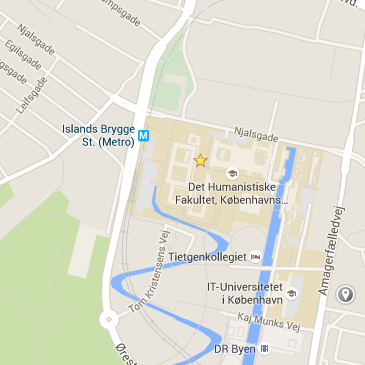
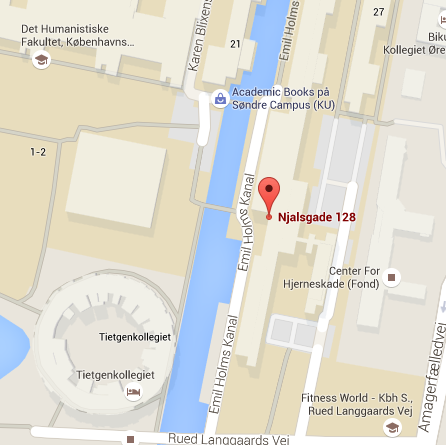
Squashed commit of the following:
commit 1a3e7a5adaa51a7eee7373cc8faa289f8d564831
Author: Ali <ali@praqma.net>
Date:   Thu Aug 6 03:11:02 2015 +0200

    address updated

diff --git a/_includes/jues/front-sidebar.html b/_includes/jues/front-sidebar.html
@@ -9,7 +9,8 @@
 <div class="darkbox">
   <h1>LOCATION</h1>
   Københavns Universitet Amager (KUA)<br>
-  Karen Blixens Vej 4<br>
+  Njalsgade 128, <br>
+  Auditorium 23.0.50 <br>
   DK-2300 København Denmark
   <hr>
   <h1>DATES</h1>
@@ -18,7 +19,7 @@
   <hr>
   <h1>TIME</h1>
   <div style="padding-bottom:8px">9:00 - 17:00</div>
-  <a  title="JUSE 2015 Venues: Københavns Universitet Amager (KUA) and Praqma" target="_blank" href="https://goo.gl/maps/hUFdi">
+  <a  title="JUSE 2015 Venues: Københavns Universitet Amager (KUA) and Praqma" target="_blank" href="https://goo.gl/maps/tctSM">
     <img
       width="200"
       frameborder="0"

diff --git a/jues15/index.md b/jues15/index.md
@@ -14,7 +14,7 @@ __August 12th, 2015 at Københavns Universitet Amager (KUA).__
 
 The program consists of invited as and submitted speaks, tech talks, and case stories from experienced Jenkins CI developers, community frontrunners, executives, and others who are engaged in building quality software and accelerating the delivery process through Continuous Integration and Continuous Delivery.
 
-_As always we'll precede the JUES conference with a Code Camp on the dayt before_{: .inverted} The Code Camp is a full day community event where developers learn from fellow developers on coding and plugin enhancement, all delivered back to the community.
+_As always we'll precede the JUES conference with a Code Camp on the day before_{: .inverted} The Code Camp is a full day community event where developers learn from fellow developers on coding and plugin enhancement, all delivered back to the community.
 
 We welcome you and other leading Jenkins developers, QA, DevOps, and operations personnel to this years Scandinavian Jenkins CI festival hoping to continuously support the growth of the Jenkins Open Source community.
 

diff --git a/jues15/misc/index.md b/jues15/misc/index.md
@@ -16,9 +16,14 @@ As Always, lunch, drinks and snacks are included and served on-site throughout t
 
 ### How to get there
 
-- **By car:** You can park at the guest parking lot on Ørestads Boulevard.
+- **By car:** Please notice that parking on campus-ground is not possible for guests. A few free spots might be available on the gravel lot next to the metro stop on Ørestad Boulevard. See [map](/jues15/images/Map-of-KUA.png) for paid parking options.
 - **By bus:** Bus number 12 (from Vesterport Station and the town hall square) and number 33 (from the town hall square).
 - **By metro:** Take the metro to Islands Brygge Station. From the station you have a 5-minute walk to the campus area.
+
+[Map View:](/jues15/images/Map-of-KUA.png)
+
+<a href="/jues15/images/Map-of-KUA.png" target="_blank">
+<img style="border:1px solid black" src="/jues15/images/Map-of-KUA.png" alt="KUA Map" title="Click the map" width="105" height="60"/></a>
 
 ### Accommodation in Copenhagen
 

diff --git a/cph15/sponsors/index.md b/cph15/sponsors/index.md
@@ -14,7 +14,7 @@ title: Sponsors
 
 [__Container Solutions is gold sponsor__<br/>Specialised in advanced technologies, including Docker and Mesos.](/cph15/sponsors/container-solutions.html){: .sponsorbox .gold #container style="vertical-align:middle"}
 
-[__Trifork is gold sponsor__<br/>A leading full service supplier of high-quality custom-built applications and end-to-end solutions.](/cph15/sponsors/trifork.html){: .sponsorbox .gold #trifork style="vertical-align:middle"}
+[__Trifork is gold sponsor__<br/>Trifork is a leading full service supplier of high-quality custom-built applications.](/cph15/sponsors/trifork.html){: .sponsorbox .gold #trifork style="vertical-align:middle"}
 
 [__CloudBees is silver sponsor__<br/>CloudBees, the Jenkins Enterprise company.](/cph15/sponsors/cloudbees.html){: .sponsorbox .silver #cloudbees style="vertical-align:middle"}
 
